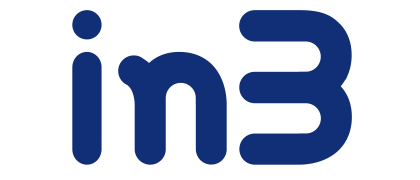
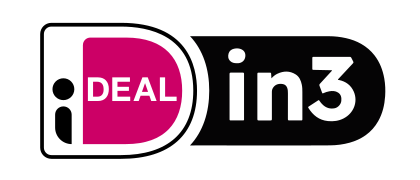
DAVAMS-744: Rebranding in3 B2C (#351)

diff --git a/translations/it.php b/translations/it.php
@@ -65,7 +65,7 @@ $_MODULE['<{multisafepayofficial}prestashop>settingsbuilder_32b573f441993025441a
 $_MODULE['<{multisafepayofficial}prestashop>settingsbuilder_19aa024e997563d73674281a7ef0fd1f'] = 'Invia email di conferma ordine';
 $_MODULE['<{multisafepayofficial}prestashop>settingsbuilder_7e9c20d0e71a862bc781a520b022903d'] = 'Se disattivato, disabiliterà l\'e-mail di conferma dell\'ordine. Può essere desiderabile quando l\'ordine in PrestaShop viene creato prima che il pagamento sia completato.';
 $_MODULE['<{multisafepayofficial}prestashop>settingsbuilder_124cf1643fc5e3b6928553a36febeed0'] = 'Disabilita carrello';
-$_MODULE['<{multisafepayofficial}prestashop>settingsbuilder_65a67f9c2823ef849cd6b5c2370700c6'] = 'Abilita questa opzione per nascondere gli articoli del carrello nella pagina di pagamento MultiSafepay, lasciando solo l\'importo totale dell\'ordine. Nota: se abilitato, i metodi di pagamento che richiedono il carrello non funzioneranno: Afterpay, E-Invoicing, in3, Klarna e Pay After Delivery.';
+$_MODULE['<{multisafepayofficial}prestashop>settingsbuilder_65a67f9c2823ef849cd6b5c2370700c6'] = 'Abilita questa opzione per nascondere gli articoli del carrello nella pagina di pagamento MultiSafepay, lasciando solo l\'importo totale dell\'ordine. Nota: se abilitato, i metodi di pagamento che richiedono il carrello non funzioneranno: Afterpay, E-Invoicing, iDEAL+in3, Klarna e Pay After Delivery.';
 $_MODULE['<{multisafepayofficial}prestashop>settingsbuilder_c7b2b138bc6b780e6a6f9507e23db81f'] = 'Un testo che verrà mostrato con l\'ordine in MultiSafepay Control. Se la banca del cliente lo supporta, questa descrizione sarà riportata anche sull\'estratto conto del cliente. Puoi includere il numero dell\'ordine utilizzando {order_reference}';
 $_MODULE['<{multisafepayofficial}prestashop>settingsbuilder_f6f8b5e8db03e4b72aa6352372e1ef0d'] = 'Descrizione dell\'ordine';
 $_MODULE['<{multisafepayofficial}prestashop>settingsbuilder_48bd09e6714d98ccb3bea2e2b44bf4e7'] = 'Pagamento dell\'ordine: {order_reference}';

diff --git a/src/Builder/SettingsBuilder.php b/src/Builder/SettingsBuilder.php
@@ -294,7 +294,7 @@ class SettingsBuilder
                         'label'   => $this->module->l('Disable Shopping Cart', self::CLASS_NAME),
                         'name'    => 'MULTISAFEPAY_OFFICIAL_DISABLE_SHOPPING_CART',
                         'is_bool' => true,
-                        'desc'    => $this->module->l('Enable this option to hide the cart items on the MultiSafepay payment page, leaving only the total order amount. Note: If is enabled, the payment methods which require shopping cart won\'t work: Afterpay, E-Invoicing, in3, Klarna and Pay After Delivery.', self::CLASS_NAME),
+                        'desc'    => $this->module->l('Enable this option to hide the cart items on the MultiSafepay payment page, leaving only the total order amount. Note: If is enabled, the payment methods which require shopping cart won\'t work: Afterpay, E-Invoicing, iDEAL+in3, Klarna and Pay After Delivery.', self::CLASS_NAME),
                         'values'  => [
                             [
                                 'id'    => 'active_on',

diff --git a/src/PaymentOptions/PaymentMethods/In3.php b/src/PaymentOptions/PaymentMethods/In3.php
@@ -45,7 +45,7 @@ class In3 extends BasePaymentOption
      */
     public function getName(): string
     {
-        return $this->module->l('in3: Betaal in 3 delen (0% rente)', self::CLASS_NAME);
+        return $this->module->l('iDEAL+in3: Betaal in 3 delen (0% rente)', self::CLASS_NAME);
     }
 
     /**
